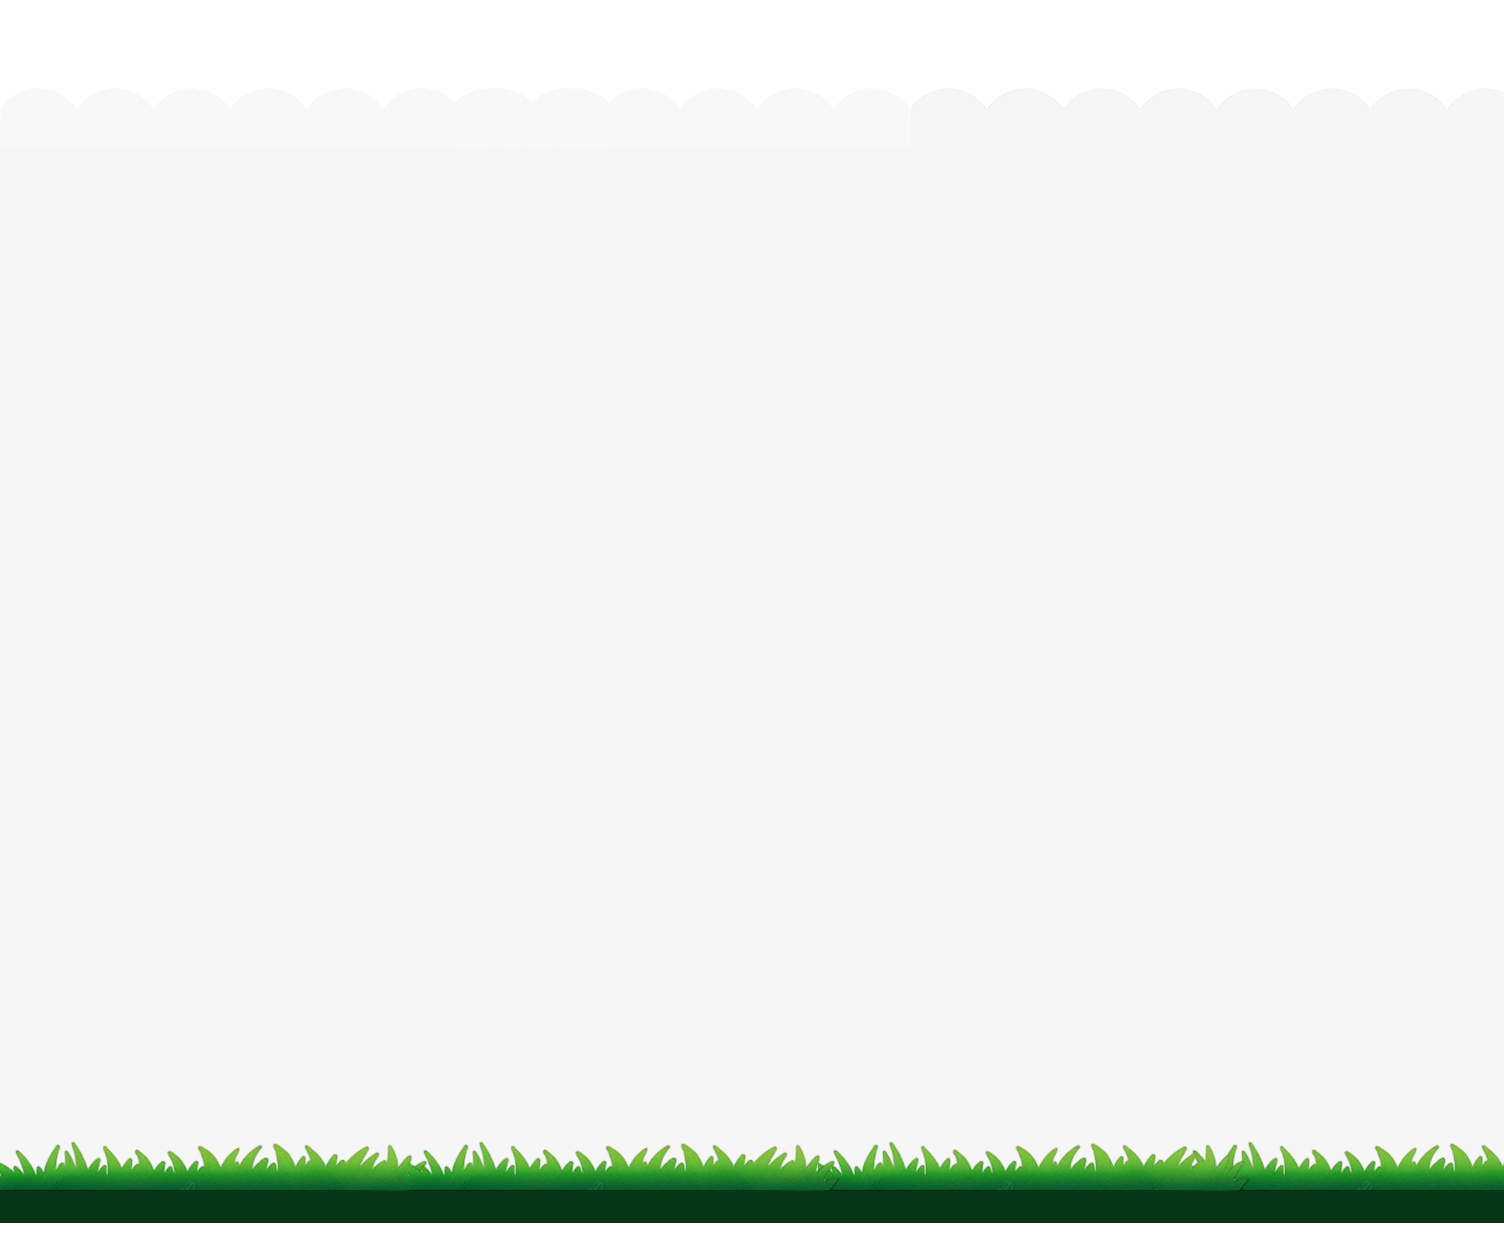
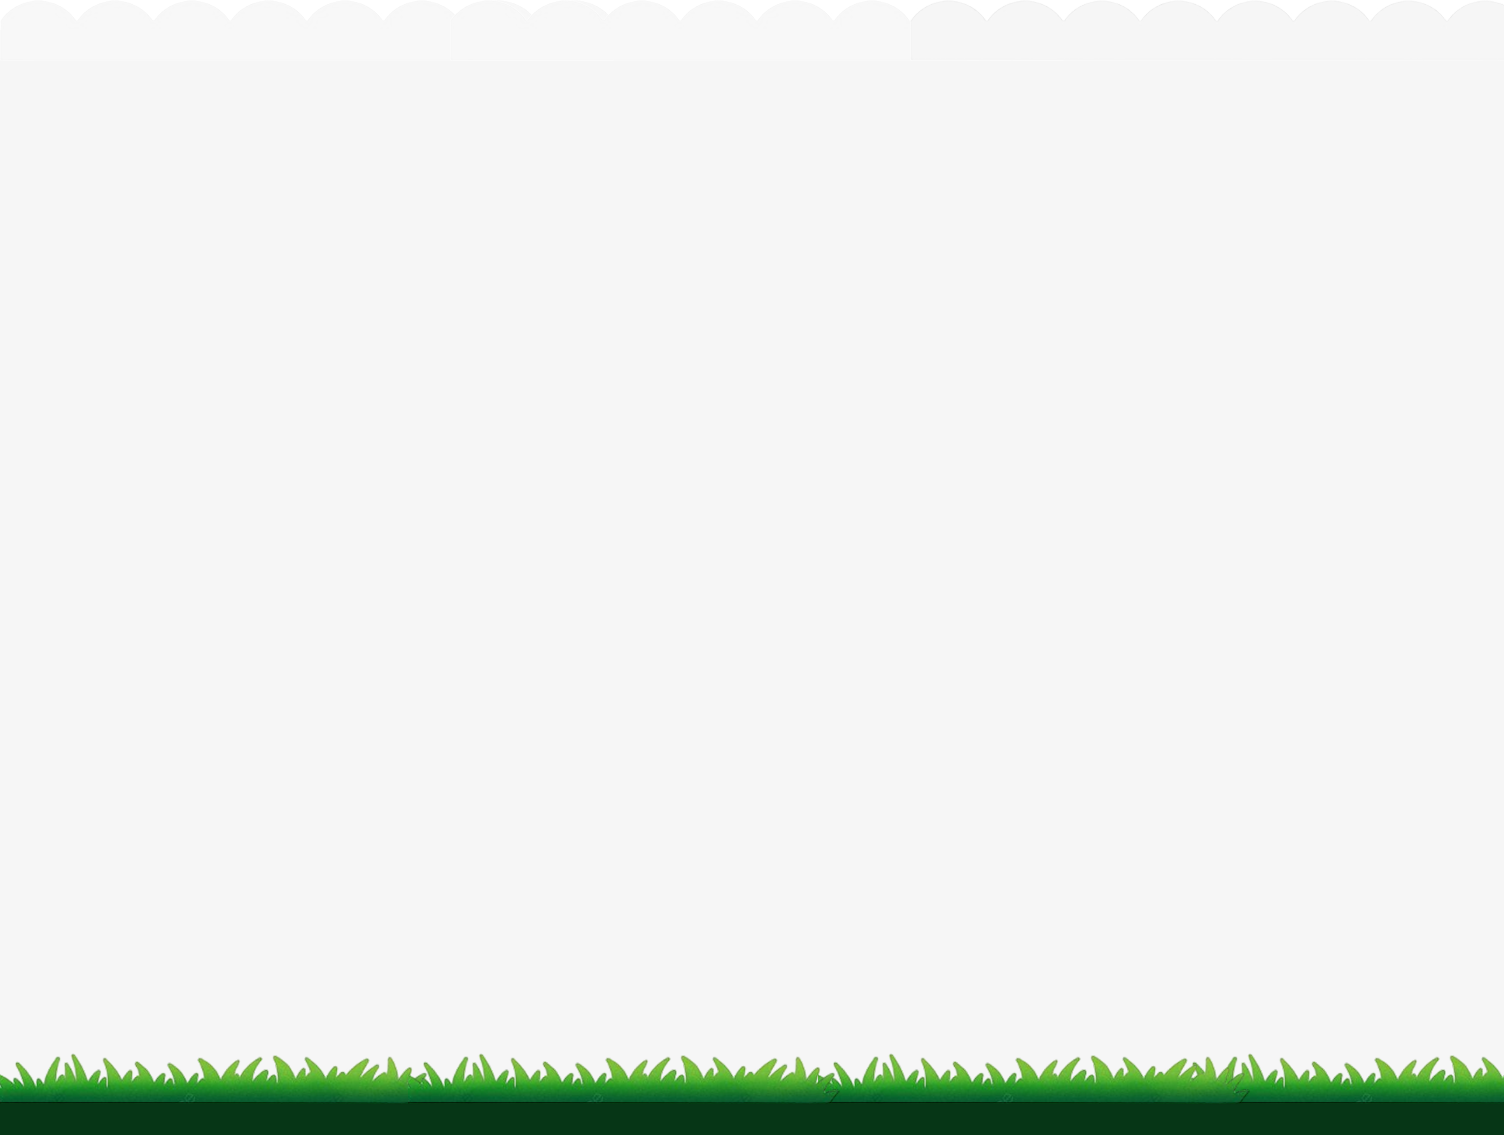
atualizções

Changed region(s): [[0.0, 0.8943, 1.0, 1.0]]

diff --git a/index.html b/index.html
@@ -4,12 +4,32 @@
         <meta charset="UTF-8">
         <meta name="viewport" content="width=device-width, initial-scale= 1.0">
         <link rel="stylesheet" href="style.css">
-        <titlle>
-            Plant Money
-        </titlle>
     </head>
     <body>
         <main>
+
+            <img src="capa.png" alt="fundo" id="fundo_capa">
+            
+            <section class="capa">
+                    <img src="girl.png" alt="menina" id="menina">
+                    <button class="play" onclick="location.href='#slogan'">
+                        <a href="#slogan" class="play">Começar</a>
+                    </button>
+                
+            </section>
+
+            <section class="slogan" id="slogan">
+                
+                    <img src="sticker_girl.png" alt="sticker_girl" id="fig_menina">
+                    <img src="sticker_pig.png" alt="sticker_pig" id="fig_porco">
+                    <img src="slogan.png" alt="mensagem" id="mensagem">
+                
+            </section>
+            
+            <img src="Controlador_despesas.png" alt="final" id="final"> 
+            
+            <section class="despesas">
+            </section>
             
         </main>
     </body>

diff --git a/style.css b/style.css
@@ -1,11 +1,69 @@
 @import url('https://fonts.googleapis.com/css2?family=Lobster+Two:ital,wght@0,400;0,700;1,400;1,700&family=Montserrat:ital,wght@0,100..900;1,100..900&display=swap');
 
-.capa{
-    display: flex;
-    height: 100vh;
-    width: 100vh;
+body,html{
+    padding: 0%;
+    margin: 0%;
+    box-sizing: border-box;
+    background-color: #2C170B;
 }
-#capa_fundo{
+main{
+    width: 100%;
+    display: flex;
+    flex-direction: column;
+    background-position: center;
+    background-size: cover;
     background-repeat: no-repeat;
+    min-height: 100vh;
+}
+
+.capa{
+    position: absolute;
     
 }
+
+#menina{
+    padding-top: 150px;
+    padding-left: 200px;
+}
+.play{
+    font-family: 'Lobster Two';
+    color: #5C9C2B;
+}
+.slogan{
+    background-color: #2C170B; 
+    width: 100%;
+    height:1000px;
+    position: relative;  
+}
+
+#mensagem{
+    
+    width: 1000px;
+    height: 700px;
+    padding-top: 150px;
+    margin-left: 300px;
+    
+    
+}
+
+#fig_menina{
+    padding-left: 1100px;
+    padding-top: 10px;
+    position: absolute;
+}
+#fig_porco{
+    position: absolute;
+    padding-left: 50px;
+    padding-top: 600px;
+}
+
+
+
+
+
+
+
+
+
+
+
